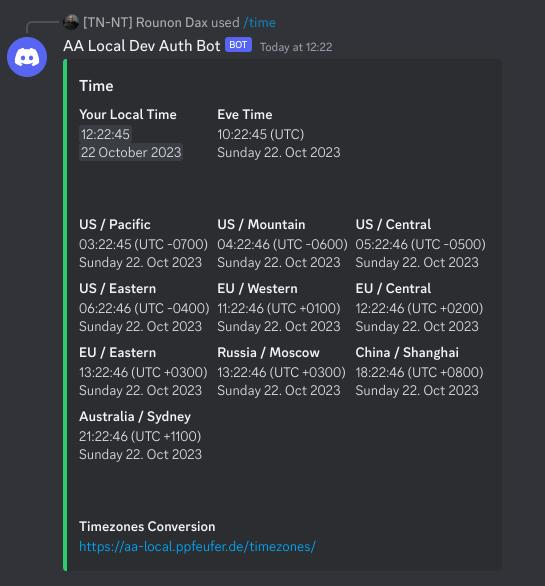
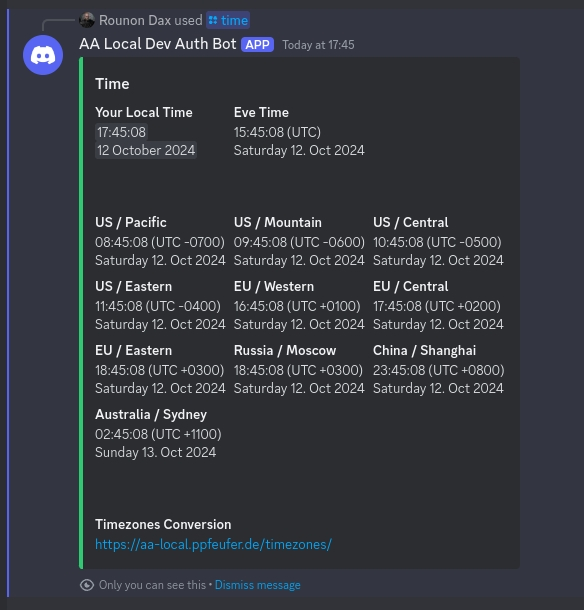
[RELEASE] v2.2.1
## \[2.2.1\] - 2024-10-12

### Added

- Integrity checks for CSS and JS files

### Fixed

- Minimized drift in countdown timer

### Changed

- Make bot response ephemeral

Changed region(s): [[0.0, 0.0, 0.9046, 0.9829], [0.3743, 0.1536, 0.6239, 0.2765]]

diff --git a/timezones/__init__.py b/timezones/__init__.py
@@ -5,5 +5,5 @@ Application init
 # Django
 from django.utils.translation import gettext_lazy as _
 
-__version__ = "2.2.0"
+__version__ = "2.2.1"
 __title__ = _("Time Zones")

diff --git a/CHANGELOG.md b/CHANGELOG.md
@@ -35,6 +35,8 @@ Section Order:
 ### Security
 -->
 
+## \[2.2.1\] - 2024-10-12
+
 ### Added
 
 - Integrity checks for CSS and JS files
